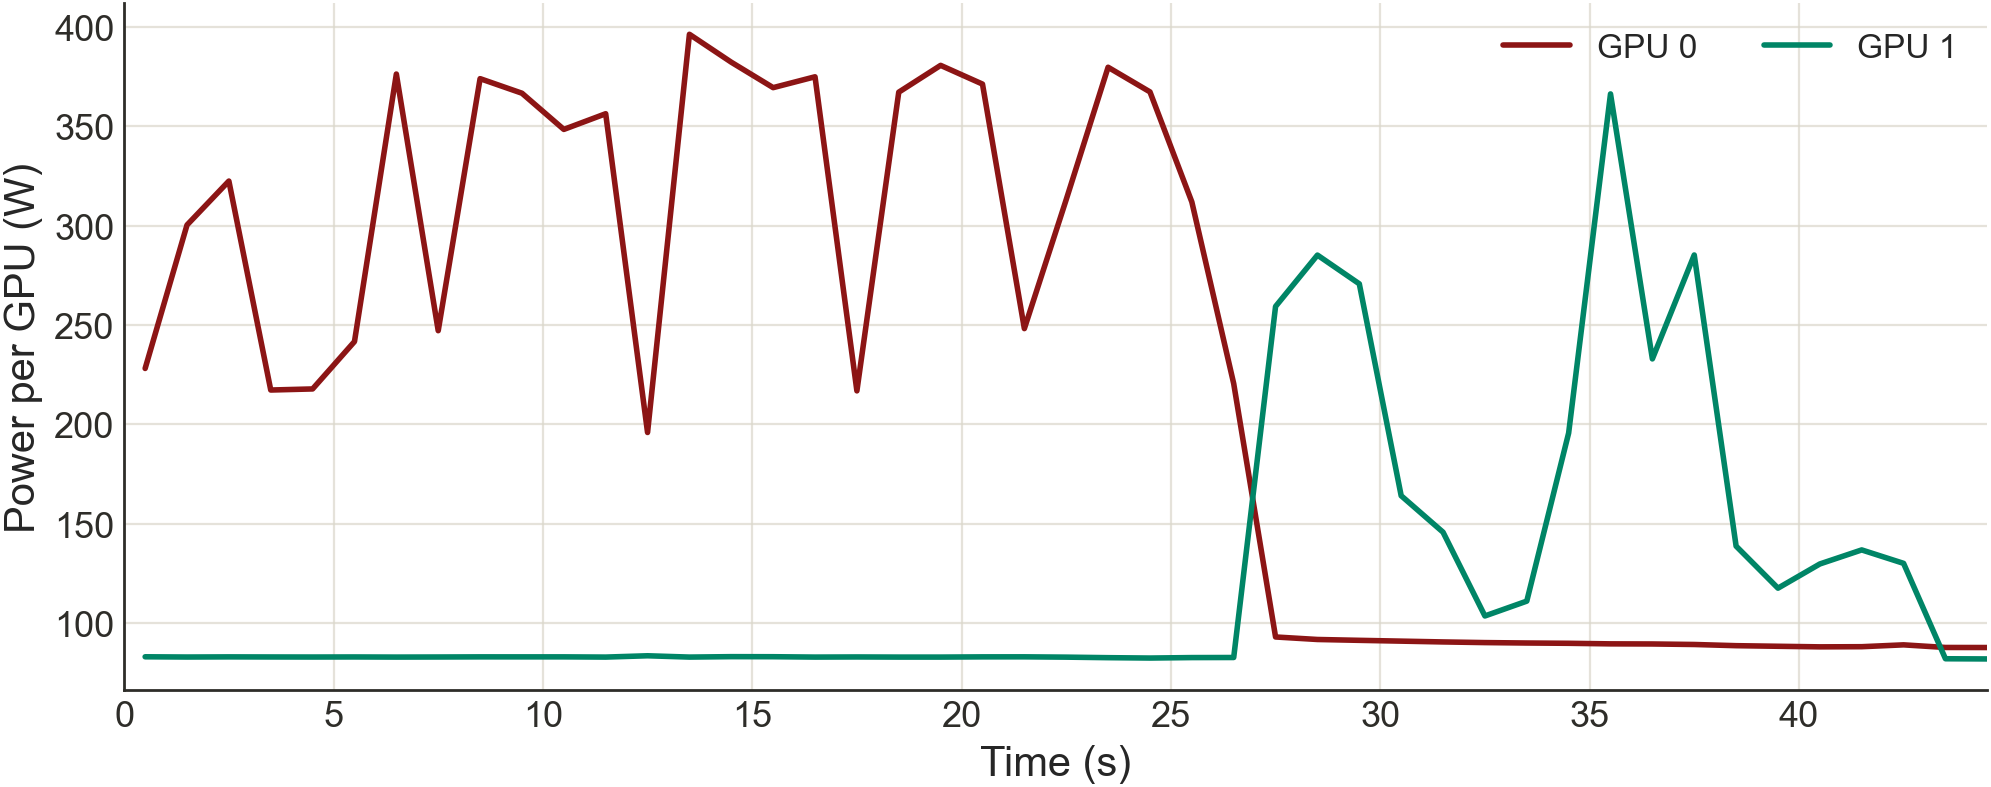
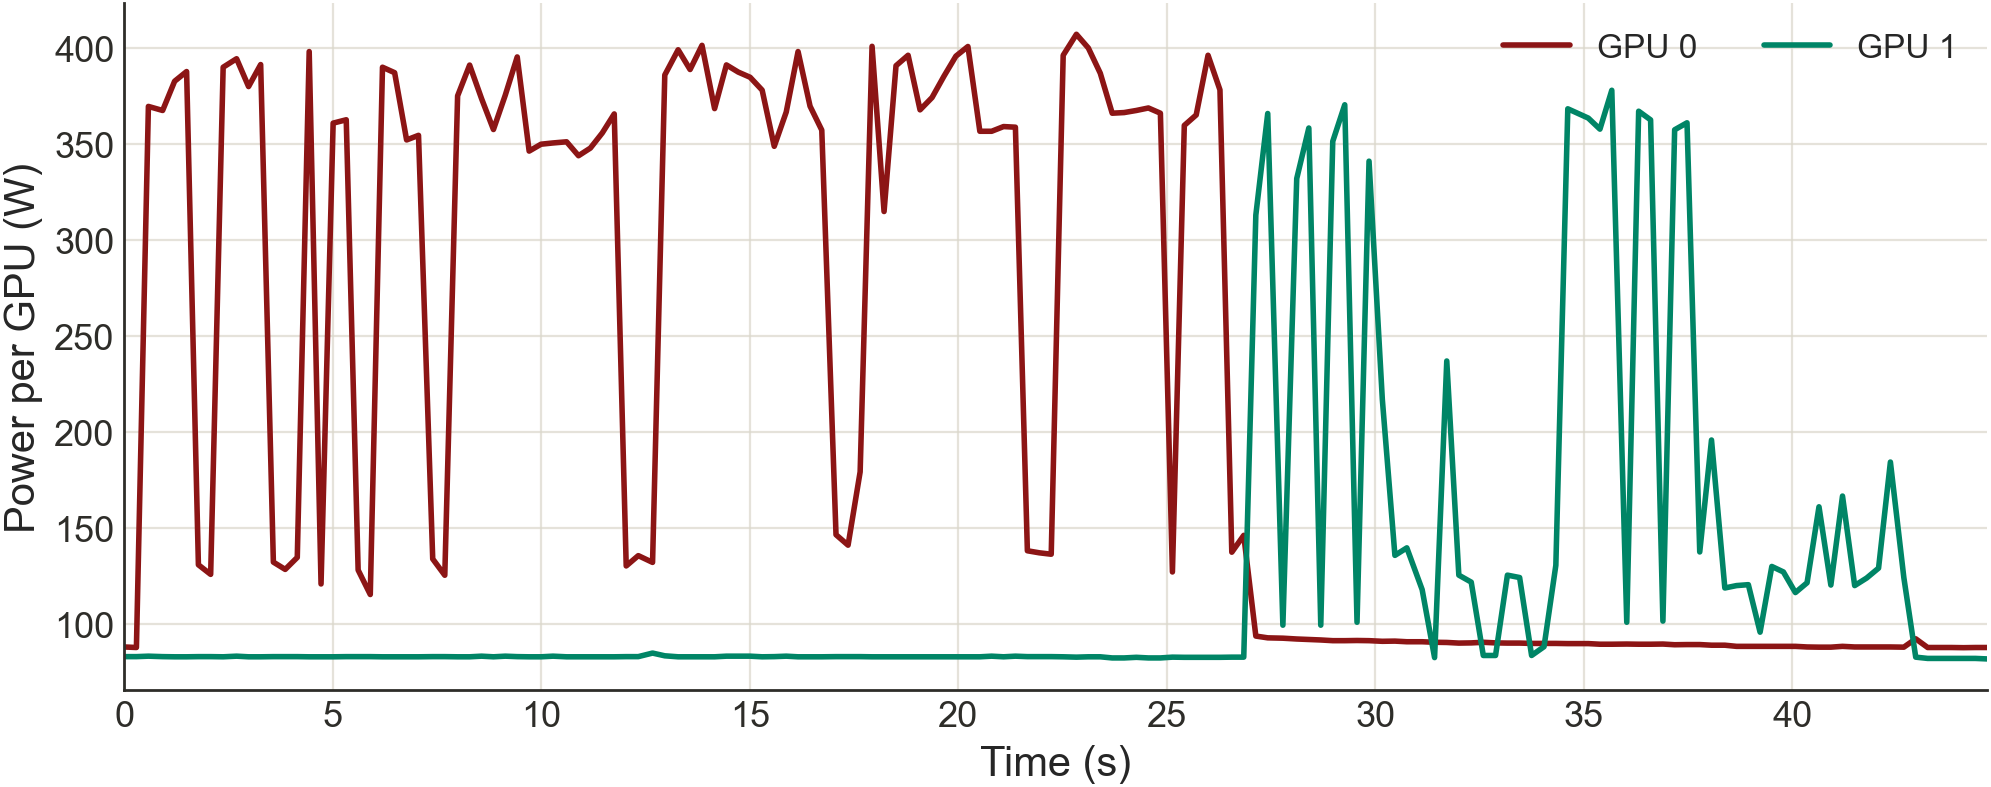
Plot power trace at raw sample rate
Drop the 1 s binning; the per-token power swings were smoothed away.

diff --git a/agent-migrate/queue-haul/plot_power_trace.py b/agent-migrate/queue-haul/plot_power_trace.py
@@ -1,4 +1,4 @@
-"""Plot per-GPU power draw from a measured power trace, averaged into 1 s bins."""
+"""Plot the raw per-GPU power trace from a measured power sample log."""
 
 from __future__ import annotations
 
@@ -15,21 +15,19 @@ import matplotlib.pyplot as plt
 COLORS = {"0": "#8C1515", "1": "#008566", "text": "#2E2D29", "grid": "#DAD7CB"}
 
 
-def bin_power(path: Path, bin_s: float) -> dict[str, tuple[list[float], list[float]]]:
+def read_power(path: Path) -> dict[str, tuple[list[float], list[float]]]:
     rows = list(csv.DictReader(path.open()))
     if any(row["valid"] != "1" for row in rows):
         raise ValueError("power trace contains invalid samples")
     base = min(int(row["monotonic_ns"]) for row in rows)
-    bins: dict[str, dict[int, list[float]]] = defaultdict(lambda: defaultdict(list))
+    samples: dict[str, list[tuple[float, float]]] = defaultdict(list)
     for row in rows:
-        index = int((int(row["monotonic_ns"]) - base) / 1e9 / bin_s)
-        bins[row["gpu"]][index].append(float(row["power_w"]))
-    return {
-        gpu: (
-            [(index + .5) * bin_s for index in sorted(samples)],
-            [sum(samples[index]) / len(samples[index]) for index in sorted(samples)],
+        samples[row["gpu"]].append(
+            ((int(row["monotonic_ns"]) - base) / 1e9, float(row["power_w"]))
         )
-        for gpu, samples in bins.items()
+    return {
+        gpu: tuple(zip(*sorted(points)))
+        for gpu, points in samples.items()
     }
 
 
@@ -61,11 +59,10 @@ def plot(series: dict[str, tuple[list[float], list[float]]], out: Path) -> None:
 def main(argv: list[str] | None = None) -> None:
     parser = argparse.ArgumentParser()
     parser.add_argument("--power", type=Path, default=Path("data/power.csv"))
-    parser.add_argument("--bin-s", type=float, default=1.0)
     parser.add_argument("--out", type=Path, default=Path("outputs/power-trace/power_per_gpu"))
     args = parser.parse_args(argv)
     args.out.parent.mkdir(parents=True, exist_ok=True)
-    plot(bin_power(args.power, args.bin_s), args.out)
+    plot(read_power(args.power), args.out)
 
 
 if __name__ == "__main__":
